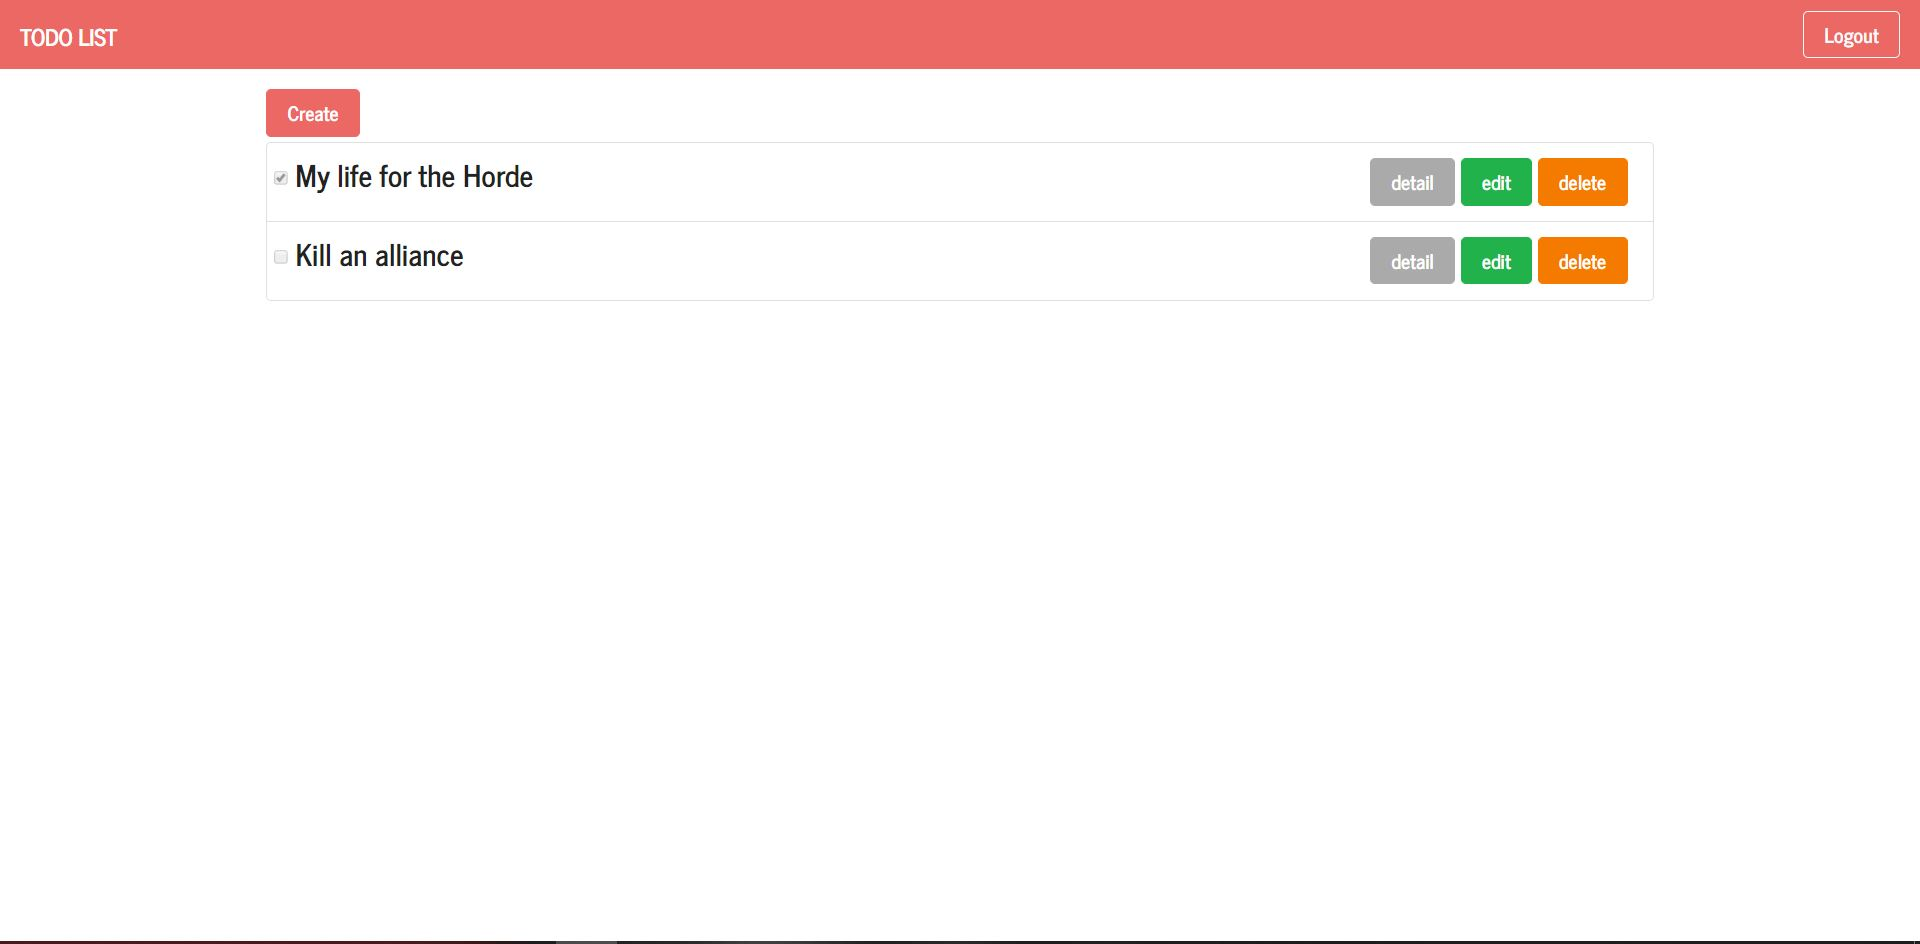
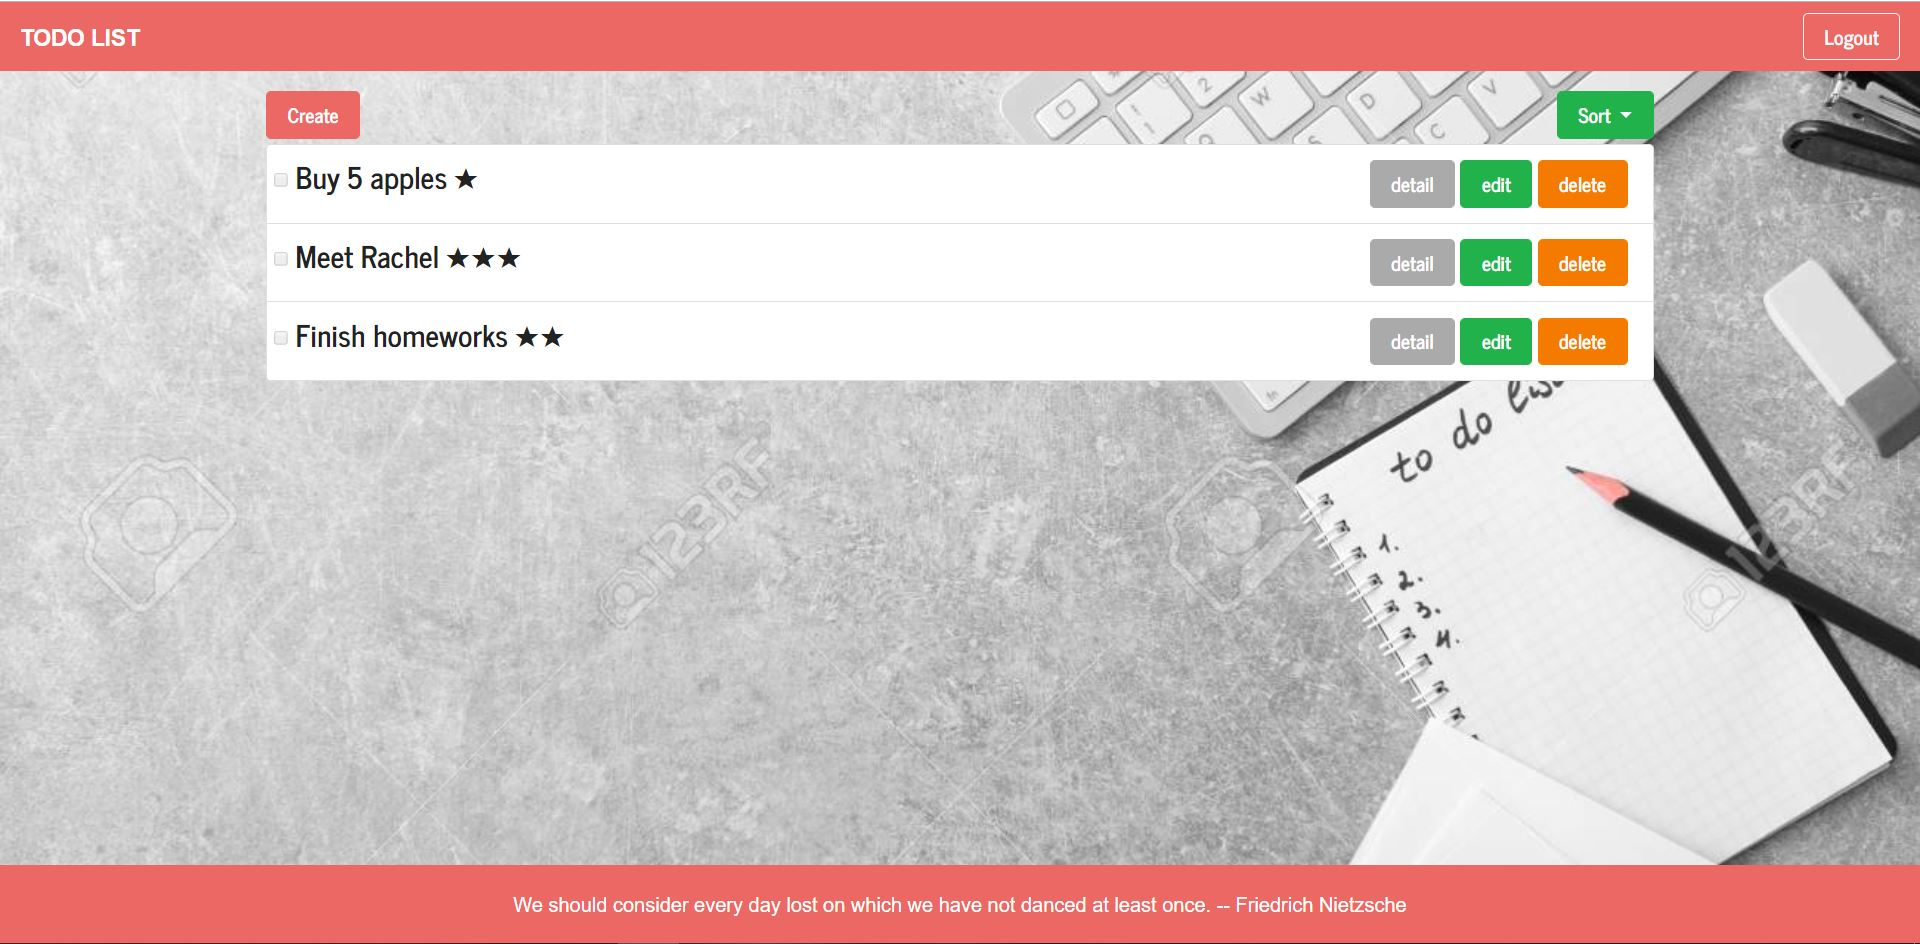
update cover and ui

diff --git a/public/stylesheets/style.css b/public/stylesheets/style.css
@@ -1,0 +1,25 @@
+* {
+  font-family: Arial, Helvetica, sans-serif; }
+
+html, body {
+  height: 100%; }
+
+body {
+  position: relative;
+  height: 100%;
+  background: url("../img/todolist.jpg");
+  background-size: cover;
+  background-position: center;
+  background-repeat: no-repeat;
+  background-attachment: fixed; }
+
+footer {
+  color: white;
+  text-align: center;
+  -webkit-box-sizing: border-box;
+  box-sizing: border-box;
+  position: absolute;
+  bottom: 0;
+  width: 100%; }
+  footer .footer-content {
+    padding: 20px 0; }

diff --git a/public/stylesheets/scss/style.scss b/public/stylesheets/scss/style.scss
@@ -1,0 +1,30 @@
+* {
+  font-family: Arial, Helvetica, sans-serif;
+}
+
+html, body {
+  height: 100%;
+}
+
+body {
+  position: relative;
+  height: 100%;
+  background: url('../img/todolist.jpg');
+  background-size: cover;
+  background-position: center;
+  background-repeat: no-repeat;
+  background-attachment: fixed;
+}
+
+footer {
+  color: white;
+  text-align: center;
+  box-sizing: border-box;
+  position: absolute;
+  bottom: 0;
+  width: 100%;
+  .footer-content {
+    padding: 20px 0;
+  }
+}
+

diff --git a/app.js b/app.js
@@ -22,6 +22,7 @@ app.engine('handlebars', exphbs({ defaultLayout: 'main' }))
 app.set('view engine', 'handlebars')
 
 /* ----- Set middleware ----- */
+app.use(express.static('public'))
 app.use(bodyParser.urlencoded({ extended: true }))
 app.use(methodOverride('_method'))
 app.use(session({
